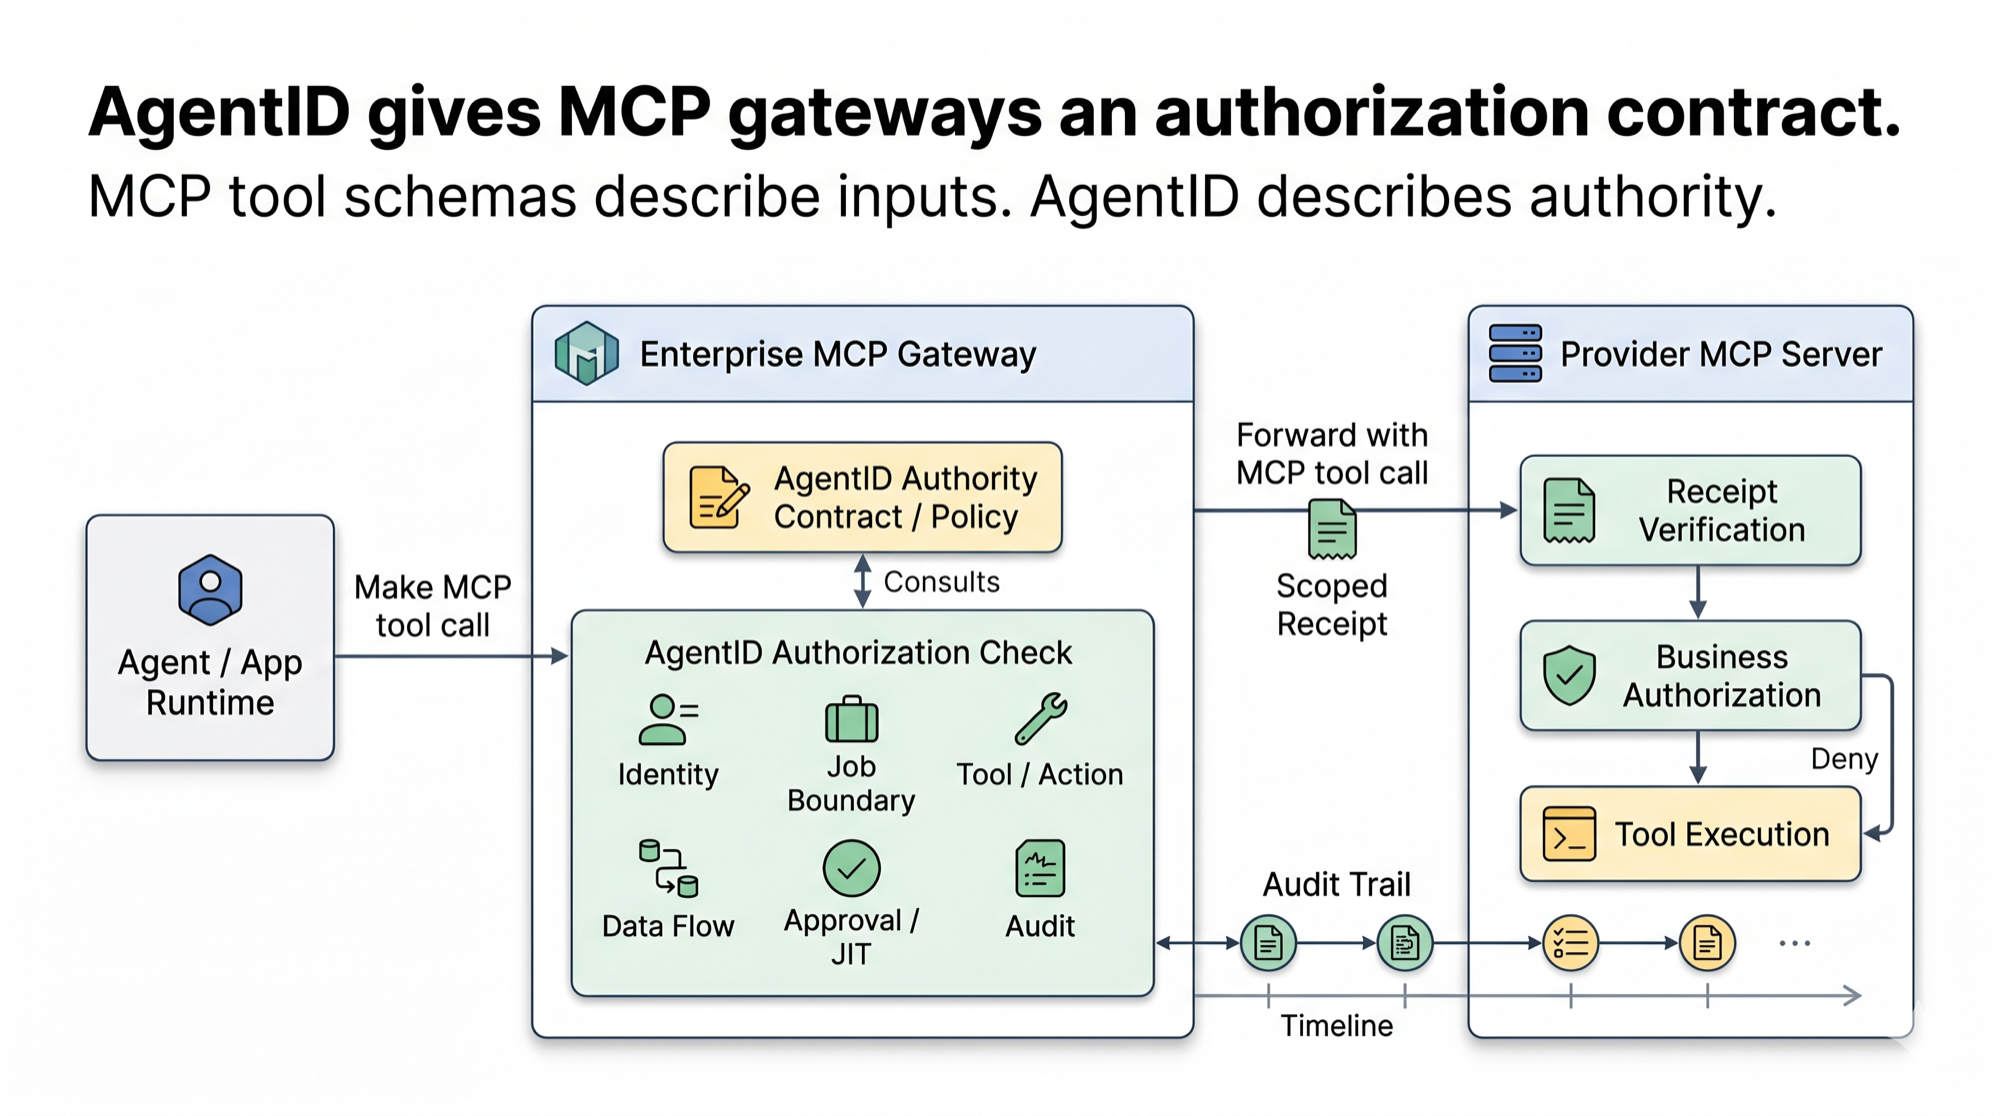
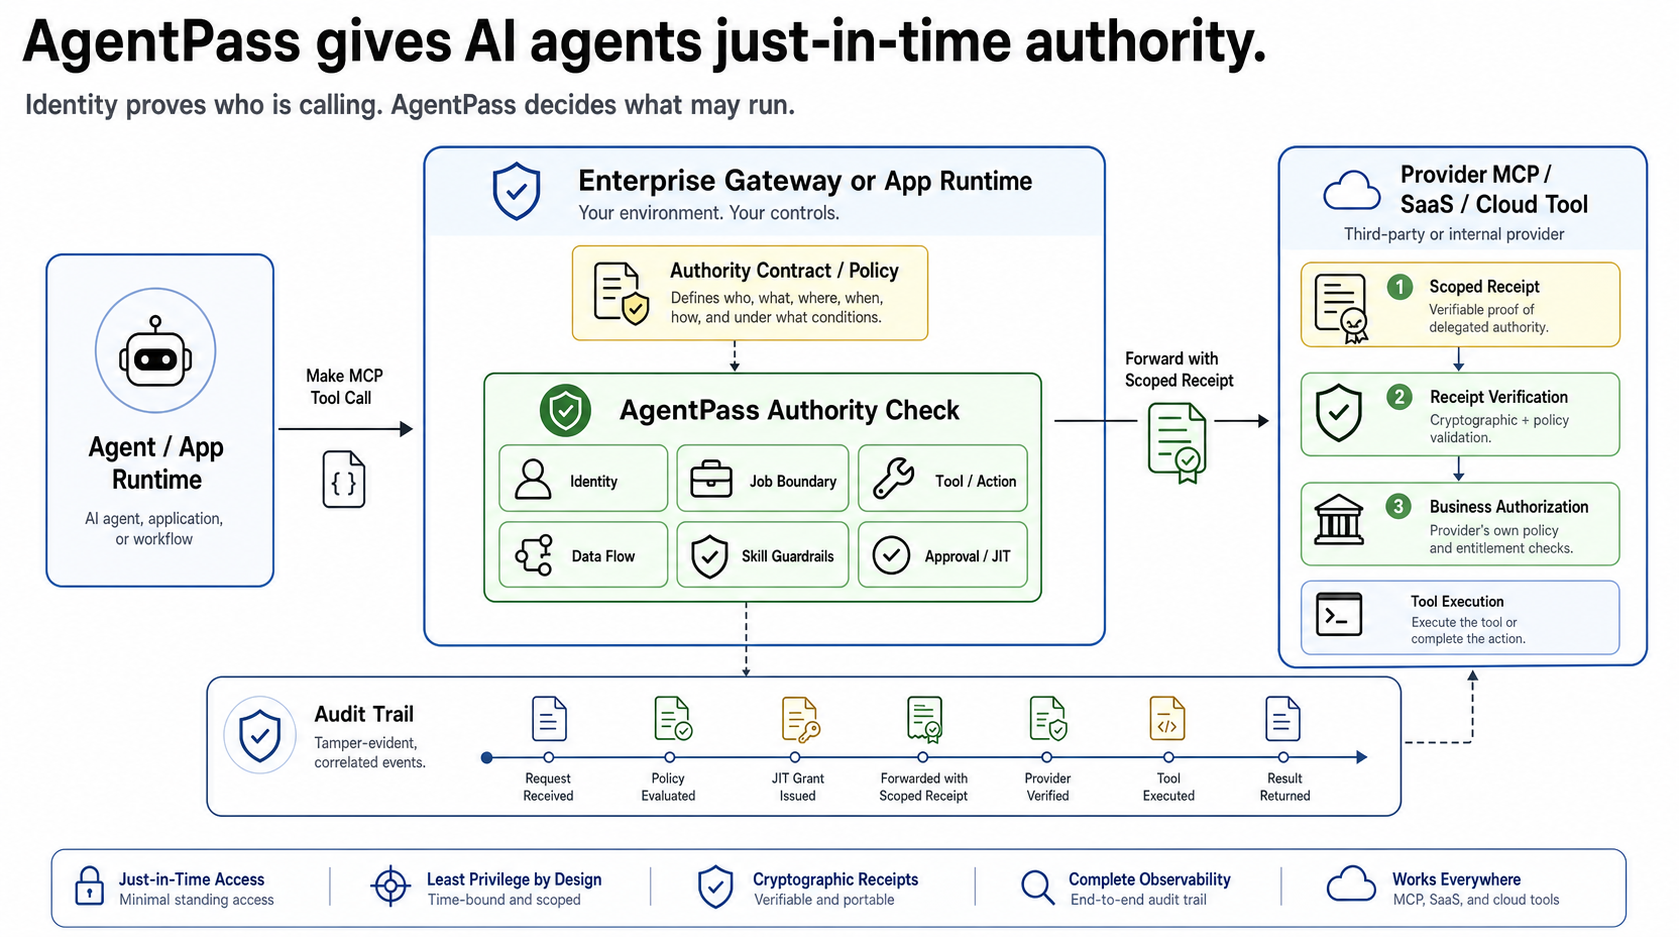
Refresh AgentPass README visual

diff --git a/README.md b/README.md
@@ -16,7 +16,7 @@ defines the missing authorization contract for agent tool calls across SaaS
 apps, internal systems, cloud control planes, databases, provider-hosted tools,
 skills, and MCP gateways.
 
-![AgentPass gives MCP gateways an authorization contract](docs/AgentPassMCPAuthorizationContract.png)
+![AgentPass gives AI agents just-in-time authority](docs/AgentPassMCPAuthorizationContract.png)
 
 The core idea is simple:
 
